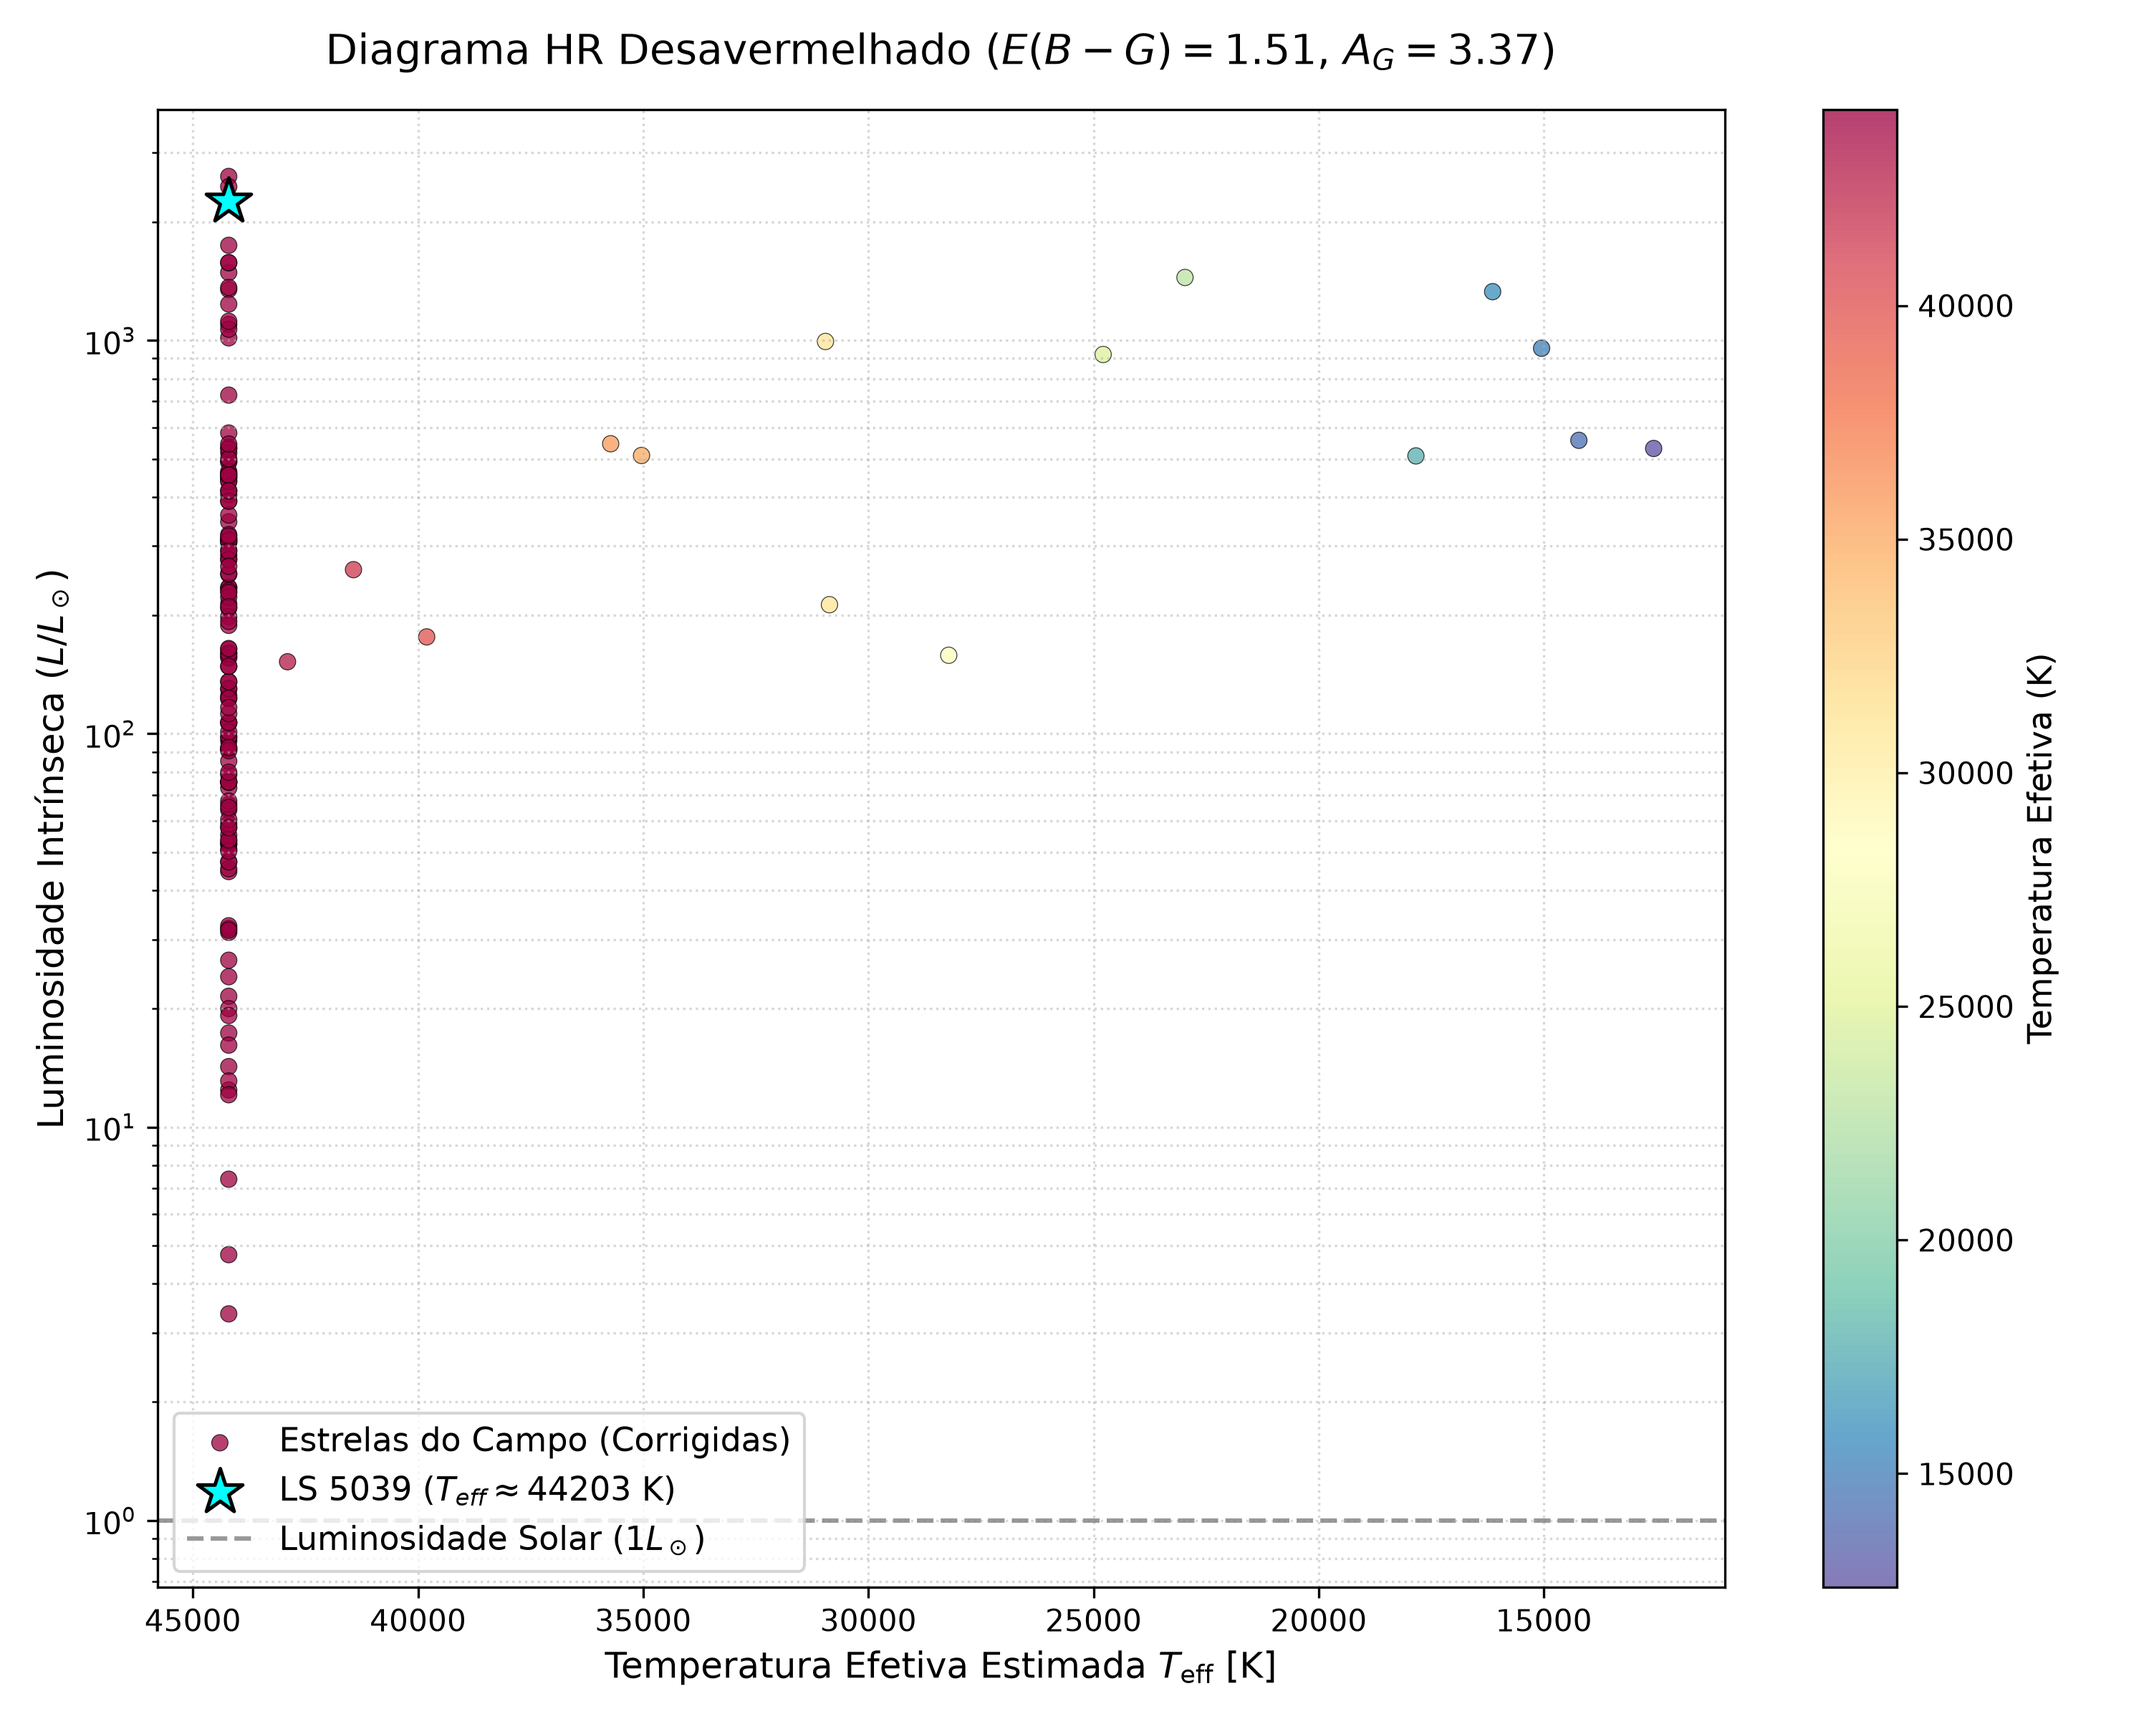
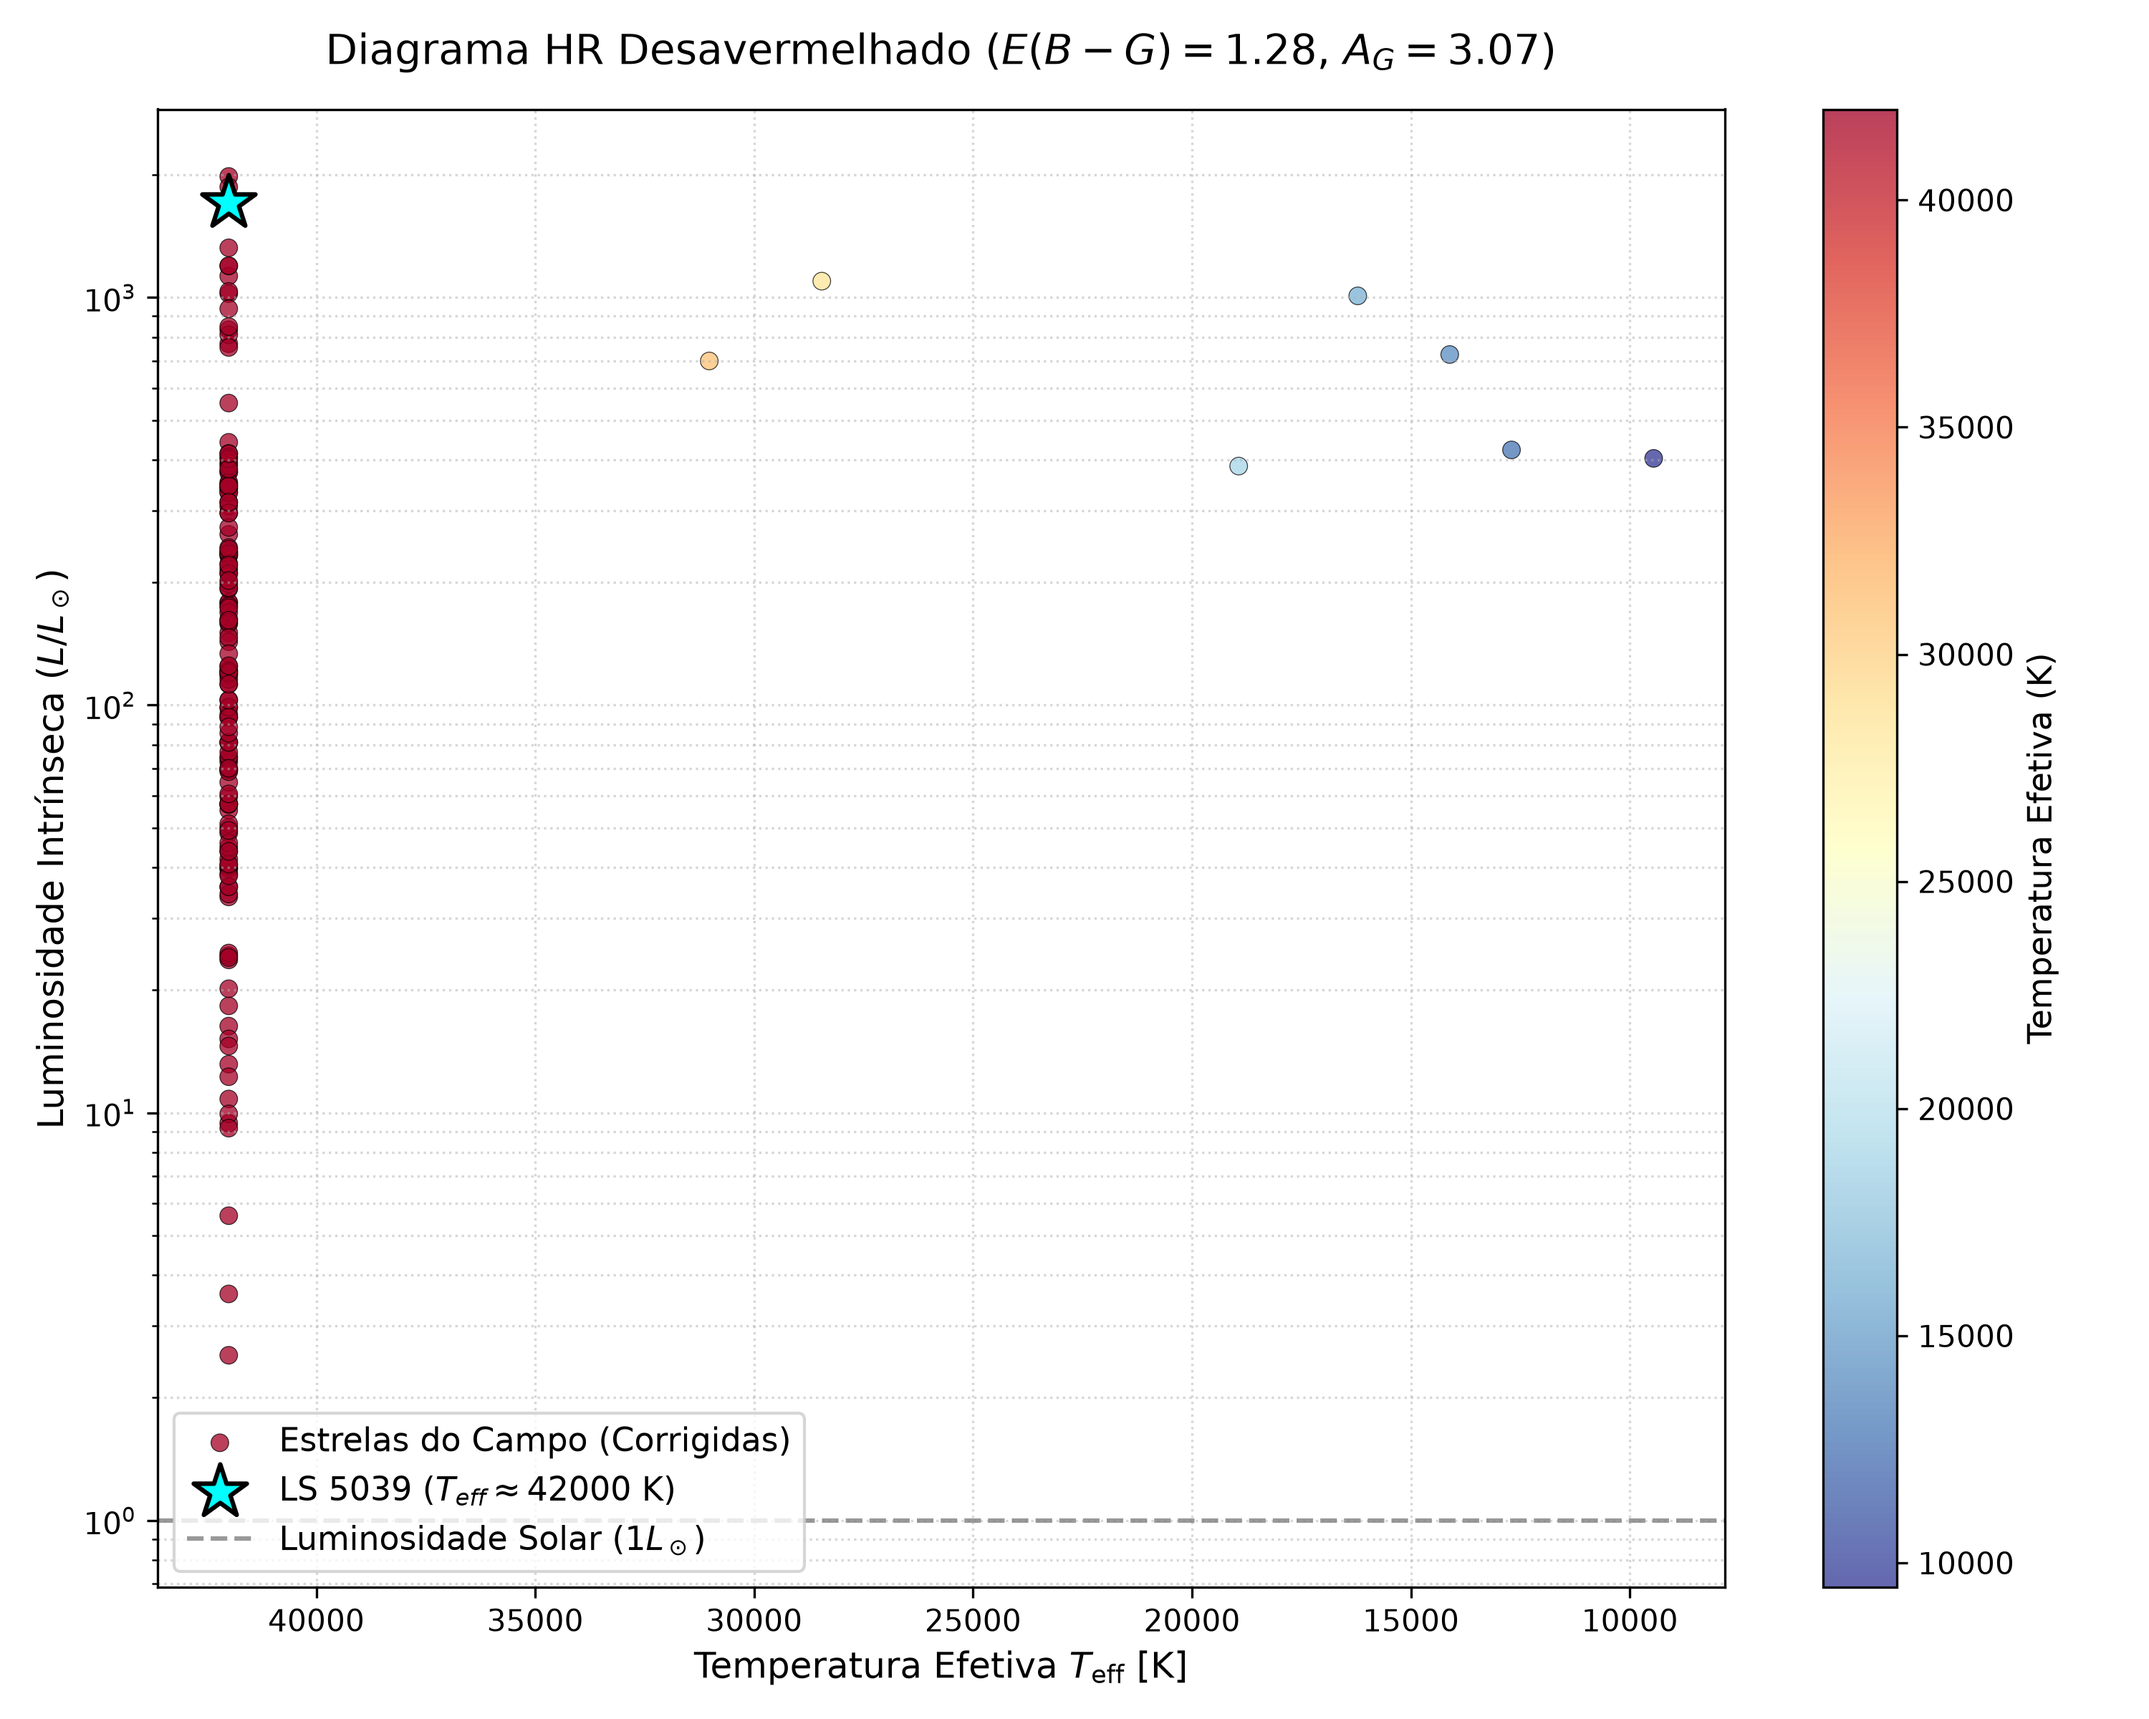
mud

diff --git a/scripts/fotometria/temp_lumin.py b/scripts/fotometria/temp_lumin.py
@@ -1,117 +1,131 @@
+from pathlib import Path
+import warnings
 import numpy as np
 import pandas as pd
 import matplotlib.pyplot as plt
+import astropy.units as u
 from astropy.coordinates import SkyCoord
-from astropy import units as u
 from astroquery.vizier import Vizier
+from scipy.interpolate import interp1d
+
+warnings.filterwarnings('ignore')
 
 # ==========================================
-# 1. CONFIGURAÇÕES & PARÂMETROS DA LITERATURA
+# 1. PARAMETROS LOCAIS & LITERATURA
 # ==========================================
-ARQUIVO_FOTOMETRIA = 'resultado_fotometria_calibrada_BG.csv'
-RA_ALVO, DEC_ALVO = 276.5627, -14.8479  # Posição de LS 5039
+DIR_ATUAL = Path(__file__).resolve().parent
+ARQUIVO_FOTOMETRIA = DIR_ATUAL / 'resultado_fotometria_calibrada_BG.csv'
 
-# Valore de extinção e desavermelhamento (Casares et al. 2005; Megier et al. 2009)
-E_BG = 1.51             # Excesso de cor E(B-G) no campo de LS 5039
-A_G = 3.37              # Extinção total na banda G
-MAG_ABS_SOL_G = 4.66    # Magnitude absoluta do Sol na banda G
+RA_ALVO, DEC_ALVO = 276.5627, -14.8479  # LS 5039
+E_BG_MAX = 1.28
+A_G_MAX = 3.07
+DIST_ALVO_PC = 2500.0
+MAG_BOL_SOL = 4.74
 
-def ballesteros_teff(cor_BV_0):
-    """Calcula T_eff (K) usando a equação empírica de Ballesteros (2012)."""
-    # Proteção contra a singularidade matemática em B-V = -0.673
-    cor_BV_clean = np.maximum(cor_BV_0, -0.55)
-    termo1 = 1.0 / (0.92 * cor_BV_clean + 1.7)
-    termo2 = 1.0 / (0.92 * cor_BV_clean + 0.62)
-    return 4600.0 * (termo1 + termo2)
+# Literatura (Casares et al. 2005): Espectroscopia NLTE
+TEFF_LS5039_LIT = 39000.0  # K
+LUM_LS5039_LIT = 1.8e5     # L_sun
+
+# Tabela Mamajek com travas de borda para evitar extrapolação
+bg0_grid = np.array([-0.363, -0.352, -0.330, -0.220, -0.110,  0.000,  0.165,  0.330])
+teff_grid = np.array([42000,  39000,  31400,  20000,  14000,   9500,   8000,   7000])
+bc_grid   = np.array([-3.80,  -3.50,  -3.00,  -2.10,  -1.20,  -0.30,   0.00,   0.05])
+
+interp_teff = interp1d(bg0_grid, teff_grid, kind='linear', bounds_error=False, fill_value=(42000, 7000))
+interp_bc   = interp1d(bg0_grid, bc_grid, kind='linear', bounds_error=False, fill_value=(-3.80, 0.05))
 
 # ==========================================
-# 2. LEITURA DOS DADOS LOCAIS
+# 2. DADOS E GAIA DR3
 # ==========================================
 df_obs = pd.read_csv(ARQUIVO_FOTOMETRIA)
 coords_obs = SkyCoord(ra=df_obs['RA_deg'].values * u.deg, dec=df_obs['Dec_deg'].values * u.deg)
 
-# ==========================================
-# 3. CONSULTA AO GAIA DR3 (PARALAXES E DISTÂNCIAS)
-# ==========================================
-print("Consultando Gaia DR3 no VizieR para resgatar paralaxes...")
 v = Vizier(columns=['RA_ICRS', 'DE_ICRS', 'Plx', 'e_Plx'], row_limit=-1)
 coord_centro = SkyCoord(ra=RA_ALVO * u.deg, dec=DEC_ALVO * u.deg)
 tabela_gaia = v.query_region(coord_centro, radius=15 * u.arcmin, catalog='I/355/gaiadr3')[0].to_pandas()
 
-# Filtro de qualidade: Paralaxes válidas e com S/N > 3
-tabela_gaia = tabela_gaia[(tabela_gaia['Plx'] > 0) & (tabela_gaia['Plx'] / tabela_gaia['e_Plx'] > 3)]
+# FILTRO GAIA: Remove dados com ruidos altos de paralaxe (e_Plx / Plx > 0.20)
+tabela_gaia = tabela_gaia[(tabela_gaia['Plx'] > 0) & (tabela_gaia['e_Plx'] / tabela_gaia['Plx'] < 0.20)]
 coords_gaia = SkyCoord(ra=tabela_gaia['RA_ICRS'].values * u.deg, dec=tabela_gaia['DE_ICRS'].values * u.deg)
 
-# Cross-match astronômico
 idx_gaia, d2d_gaia, _ = coords_obs.match_to_catalog_sky(coords_gaia)
-valid_gaia = d2d_gaia < (2.5 * u.arcsec)
+valid_gaia = d2d_gaia < (2.0 * u.arcsec)
 
-df_fisico = df_obs[valid_gaia].copy().reset_index(drop=True)
-df_fisico['Paralaxe_mas'] = tabela_gaia['Plx'].iloc[idx_gaia[valid_gaia]].values
-df_fisico['Erro_Paralaxe'] = tabela_gaia['e_Plx'].iloc[idx_gaia[valid_gaia]].values
+df = df_obs[valid_gaia].copy().reset_index(drop=True)
+df['Paralaxe_mas'] = tabela_gaia['Plx'].iloc[idx_gaia[valid_gaia]].values
 
 # ==========================================
-# 4. DESAVERMELHAMENTO, TEMPERATURA E LUMINOSIDADE
+# 3. CÁLCULOS FÍSICOS
 # ==========================================
-# A. Correção do Índice de Cor Intrinseco (B - G)_0
-df_fisico['Cor_BG_0'] = df_fisico['Cor_B_G'] - E_BG
+df['Distancia_pc'] = 1000.0 / df['Paralaxe_mas']
+modulo_distancia = 5 * np.log10(df['Distancia_pc']) - 5
 
-# B. Conversão (B - G)_0 -> (B - V)_0 -> Temperatura Efetiva
-df_fisico['Cor_BV_0'] = 0.86 * df_fisico['Cor_BG_0'] + 0.04
-df_fisico['Teff'] = ballesteros_teff(df_fisico['Cor_BV_0'])
+fator_distancia = np.minimum(1.0, df['Distancia_pc'] / DIST_ALVO_PC)
+df['E_BG_local'] = E_BG_MAX * fator_distancia
+df['A_G_local'] = A_G_MAX * fator_distancia
 
-# C. Distância e Módulo de Distância
-df_fisico['Distancia_pc'] = 1000.0 / df_fisico['Paralaxe_mas']
-modulo_distancia = 5 * np.log10(df_fisico['Distancia_pc']) - 5
+df['Cor_BG_0'] = df['Cor_B_G'] - df['E_BG_local']
+df['Teff'] = interp_teff(df['Cor_BG_0'])
+df['BC'] = interp_bc(df['Cor_BG_0'])
 
-# D. Magnitude Absoluta Desavermelhada M_{G,0} e Luminosidade L/L_sun
-df_fisico['Mag_Abs_G0'] = df_fisico['Mag_Ap_G'] - modulo_distancia - A_G
-df_fisico['Luminosidade'] = 10 ** (-0.4 * (df_fisico['Mag_Abs_G0'] - MAG_ABS_SOL_G))
+df['Mag_Abs_G0'] = df['Mag_Ap_G'] - modulo_distancia - df['A_G_local']
+df['Mag_Bol'] = df['Mag_Abs_G0'] + df['BC']
+df['Luminosidade_Bol'] = 10 ** (-0.4 * (df['Mag_Bol'] - MAG_BOL_SOL))
 
-# E. Identificar a estrela alvo (LS 5039)
-coords_fisico = SkyCoord(ra=df_fisico['RA_deg'].values * u.deg, dec=df_fisico['Dec_deg'].values * u.deg)
+# Separa a LS 5039 do campo
+coords_fisico = SkyCoord(ra=df['RA_deg'].values * u.deg, dec=df['Dec_deg'].values * u.deg)
 idx_alvo = np.argmin(coords_fisico.separation(coord_centro))
+df_campo = df.drop(index=idx_alvo).reset_index(drop=True)
 
-print(f"Total de estrelas processadas no Diagrama HR: {len(df_fisico)}")
+# Filtro de exibição: Apenas estrelas com Teff >= 8000 K
+df_campo = df_campo[df_campo['Teff'] >= 8000].copy()
 
 # ==========================================
-# 5. DIAGRAMA HR: TEMPERATURA VS LUMINOSIDADE
+# 4. PLOTAGEM DESPOLUÍDA
 # ==========================================
-plt.figure(figsize=(10, 8), dpi=100)
+fig, ax = plt.subplots(figsize=(10, 6.5), dpi=120)
 
-# Mapeamento de cores baseado na Temperatura
-sc = plt.scatter(
-    df_fisico['Teff'], df_fisico['Luminosidade'],
-    c=df_fisico['Teff'], cmap='Spectral_r',
-    s=30, alpha=0.75, edgecolor='k', linewidth=0.3,
-    label='Estrelas do Campo (Corrigidas)'
+# Campo com pontos pequenos (s=18) e opacidade moderada (alpha=0.35)
+sc = ax.scatter(
+    df_campo['Teff'], df_campo['Luminosidade_Bol'],
+    c=df_campo['Teff'], cmap='RdYlBu_r',
+    s=18, alpha=0.35, edgecolor='none',
+    zorder=3, label=r'Estrelas Quentes do Campo ($T_{\mathrm{eff}} \geq 8000$ K)'
 )
 
-# Destaque do Alvo (LS 5039)
-plt.scatter(
-    df_fisico['Teff'].iloc[idx_alvo], df_fisico['Luminosidade'].iloc[idx_alvo],
-    color='cyan', marker='*', s=250, edgecolor='black', linewidth=1.2,
-    zorder=5, label=f'LS 5039 ($T_{{eff}} \\approx {df_fisico["Teff"].iloc[idx_alvo]:.0f}$ K)'
+# Ponto da LS 5039 destacado
+ax.scatter(
+    TEFF_LS5039_LIT, LUM_LS5039_LIT,
+    color='cyan', marker='*', s=380, edgecolor='black', linewidth=1.2,
+    zorder=10, label='LS 5039 (Espectroscopia / Literatura)'
 )
 
-# Linha de referência da Luminosidade Solar
-plt.axhline(1.0, color='gray', linestyle='--', linewidth=1.5, alpha=0.8, label='Luminosidade Solar ($1 L_\\odot$)')
+# Anotação técnica
+ax.annotate(
+    f'LS 5039 (O6.5V)\n$T_{{eff}} = {TEFF_LS5039_LIT:.0f}$ K\n$L_{{bol}} \\approx 1.8 \\times 10^5 L_\\odot$',
+    xy=(TEFF_LS5039_LIT, LUM_LS5039_LIT),
+    xytext=(TEFF_LS5039_LIT * 1.30, LUM_LS5039_LIT * 0.10),
+    arrowprops=dict(facecolor='black', shrink=0.08, width=1.0, headwidth=5),
+    fontsize=9.5, fontweight='bold', bbox=dict(boxstyle='round,pad=0.3', facecolor='white', alpha=0.9)
+)
 
-# Escalas e Inversão padrão de Diagramas HR
-plt.yscale('log')
-plt.gca().invert_xaxis()  # Temperatura diminui da esquerda para a direita
+ax.axhline(1.0, color='gray', linestyle='--', linewidth=1.0, alpha=0.6, label=r'Luminosidade Solar ($1 L_\odot$)')
 
-# Formatação do Gráfico
-plt.title(r'Diagrama HR Desavermelhado ($E(B-G)=1.51$, $A_G=3.37$)', fontsize=14, pad=15)
-plt.xlabel(r'Temperatura Efetiva Estimada $T_{\mathrm{eff}}$ [K]', fontsize=12)
-plt.ylabel(r'Luminosidade Intrínseca ($L / L_\odot$)', fontsize=12)
+ax.set_yscale('log')
+ax.set_xlim(44000, 7800)
+ax.set_ylim(1e-1, 1e6)
 
-cbar = plt.colorbar(sc)
-cbar.set_label('Temperatura Efetiva (K)', fontsize=11)
+ax.set_title('Diagrama HR Bolométrico — Região de LS 5039', fontsize=12, fontweight='bold', pad=12)
+ax.set_xlabel(r'Temperatura Efetiva $T_{\mathrm{eff}}$ [K]', fontsize=11)
+ax.set_ylabel(r'Luminosidade Bolométrica Total ($L_{\mathrm{bol}} / L_\odot$)', fontsize=11)
 
-plt.grid(True, which='both', linestyle=':', alpha=0.5)
-plt.legend(fontsize=11, loc='lower left')
+cbar = fig.colorbar(sc, ax=ax, pad=0.02)
+cbar.set_label('Temperatura Efetiva (K)', fontsize=10)
+
+ax.grid(True, which='both', linestyle=':', alpha=0.3)
+ax.legend(fontsize=9, loc='lower right', frameon=True)
+
 plt.tight_layout()
-
-plt.savefig('diagrama_HR_Temperatura_Luminosidade_Corrigido.png', dpi=300)
+out_fig = DIR_ATUAL / 'diagrama_HR_bolometrico_limpo.png'
+plt.savefig(out_fig, dpi=300)
 plt.show()
